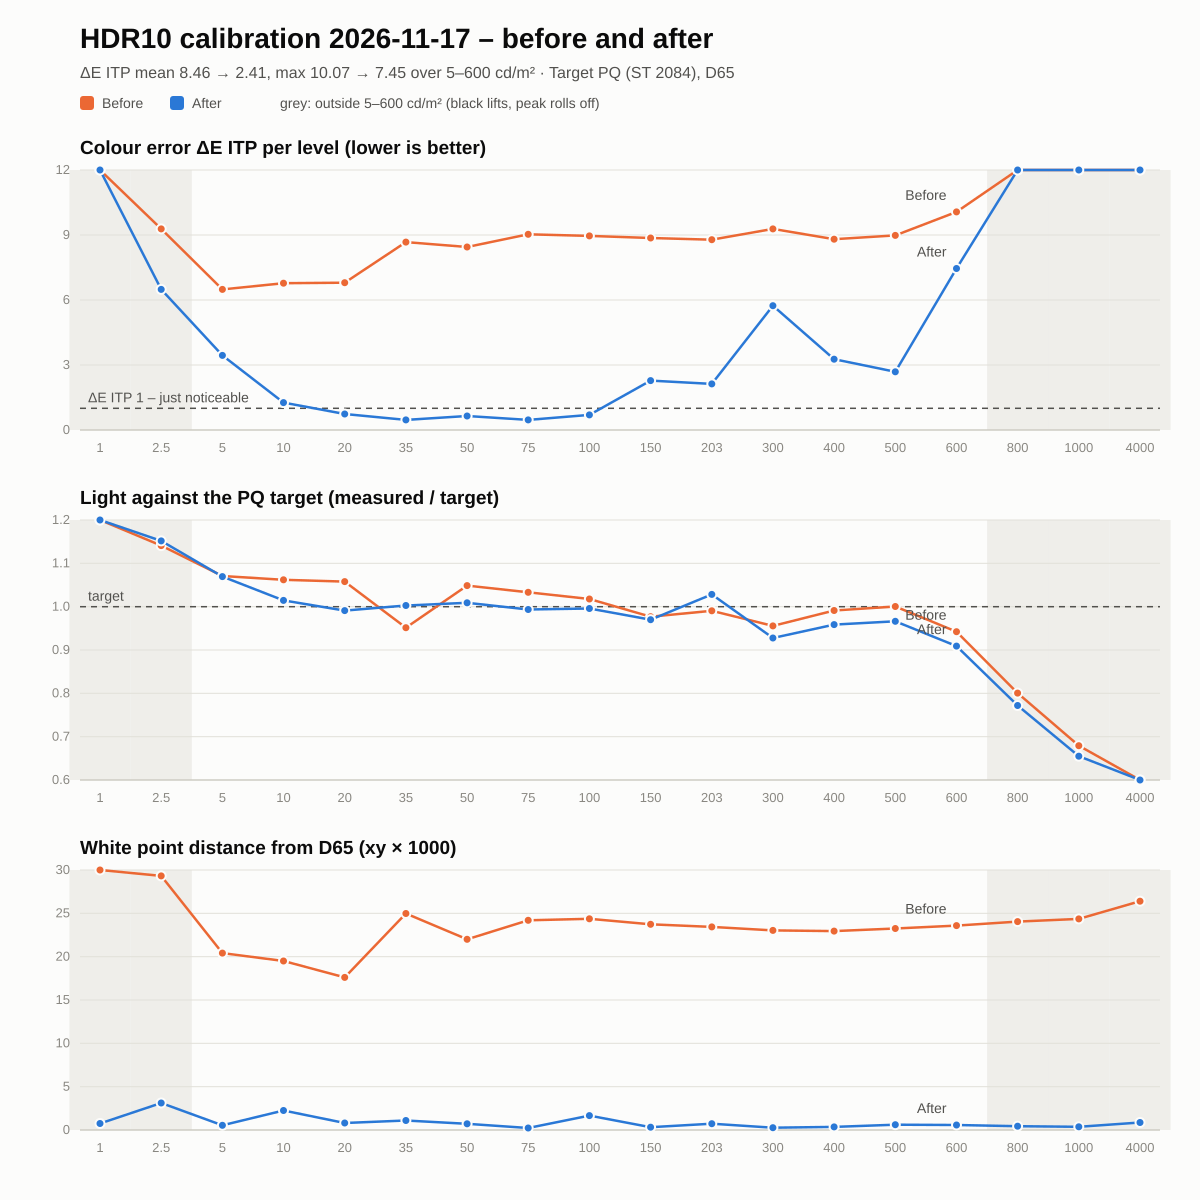
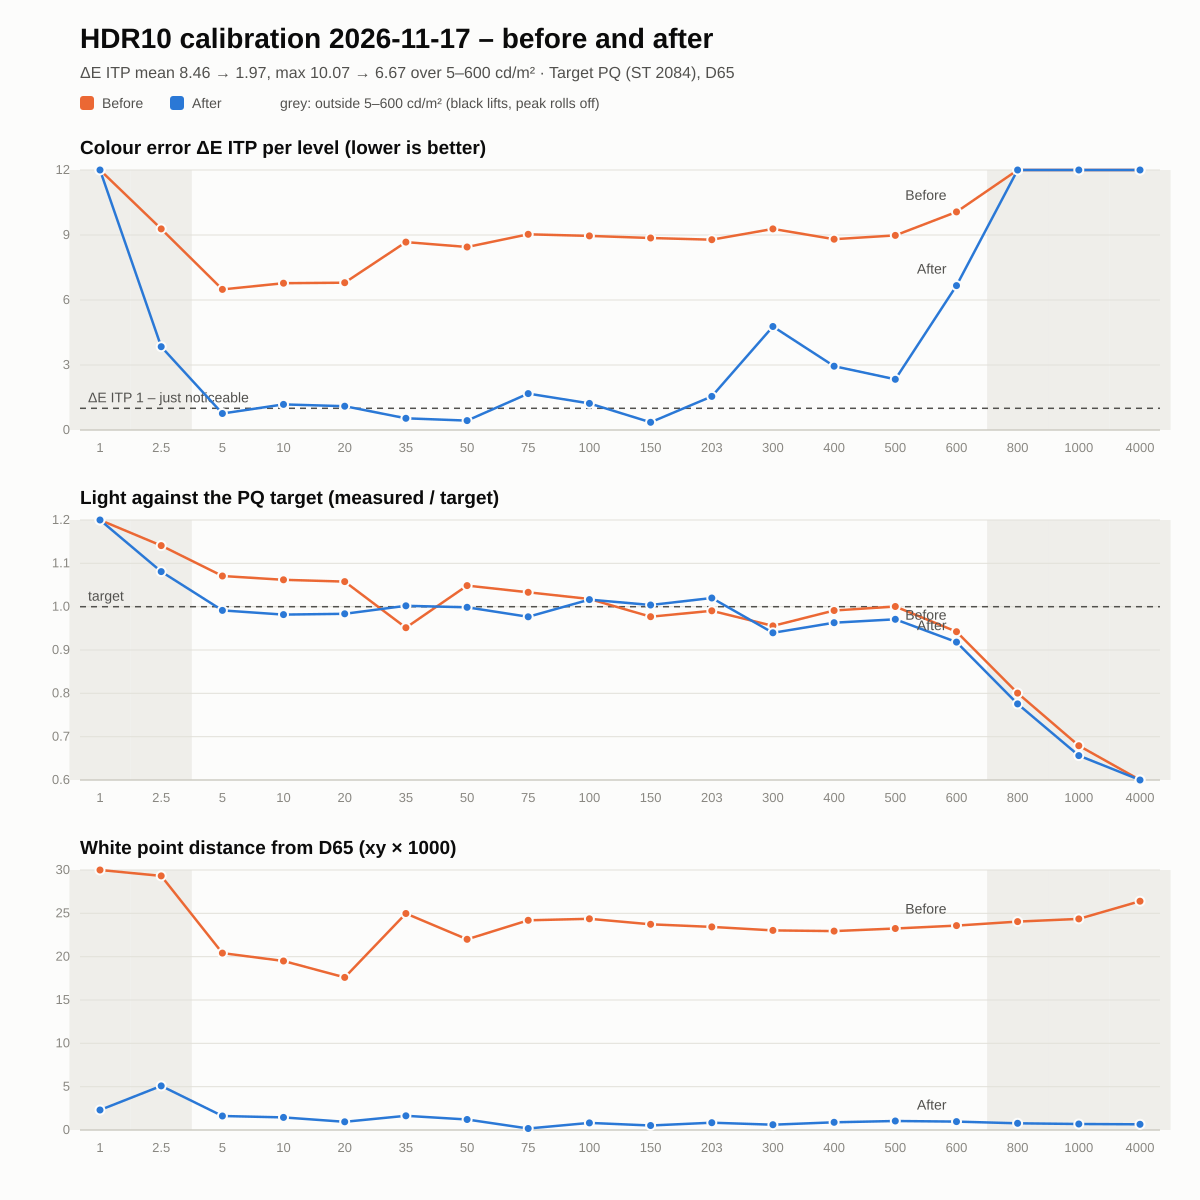
README: ny HDR10-graf efter efterjusteringen av punkterna

diff --git a/docs/HARDWARE.md b/docs/HARDWARE.md
@@ -91,7 +91,12 @@ Körning `data/runs/2026-11-17_123733_hdr10/`.
 - **Avvikande mätningar:** en hel mätning (`hdr10 measure`, 17:28) gav 35 och 150 cd/m² 7–8 % för
   mörkt med x +0,004, y −0,003, trots omstart och dubbel avläsning; omätta minuter senare låg de
   rätt. 150 cd/m² visad i sju minuter utan byte av mönster var stabil (149,3, 0,3124/0,3285).
-  Orsaken är okänd – möjligen AISR (innehållsanpassad uppskalning), som nu är avstängd i HDR10.
+  Orsaken är okänd. Inte AISR: med AISR av (18:17) gav 203 cd/m² samma avvikelse (191,8,
+  0,3161/0,3270), och tre omätningar direkt efter låg på 207,1 och 0,3134/0,3295.
+- **Grafen i README** (`docs/img/hdr10-calibration-2026-11-17.png`): före från körningen 14:13,
+  efter från `data/runs/2026-11-17_181710_hdr10/` med 203 cd/m² ersatt av medlet av de tre
+  omätningarna (noterat i `after.json`). ΔE ITP medel 8,46 → 1,97, max 10,07 → 6,67 över
+  5–600 cd/m². Det största kvarvarande felet är ljuset vid 300 och 600 cd/m² (6–8 % under PQ).
 - **Skärpa och AISR i HDR10-läget:** `SR_Strength` (menyns Skärpa, 0–63) 10 → 0 och `AISR`
   (Off/Low/Middle/High) Middle → Off, satta via provappen medan HDR10 visades. SDR står kvar på
   3 och Middle.

diff --git a/README.md b/README.md
@@ -41,7 +41,7 @@ HDR10: PQ (ST 2084) in absolute luminance and D65, with local dimming off. HEVC 
 the TV switch to HDR10, where it tracks PQ within about ±4 % up to 600 cd/m² and rolls off towards
 about 740 cd/m². The app refuses to read or write unless the TV is in HDR10, so the SDR calibration is
 never touched. Result on 2026-11-17 (white point and multi-point white balance): greyscale mean
-ΔE ITP 8.46 → 2.41 over 5–600 cd/m².
+ΔE ITP 8.46 → 1.97 over 5–600 cd/m², white point within 0.002 of D65 from 5 cd/m² up.
 
 ![HDR10 greyscale before and after the calibration on 2026-11-17](docs/img/hdr10-calibration-2026-11-17.png)
 
